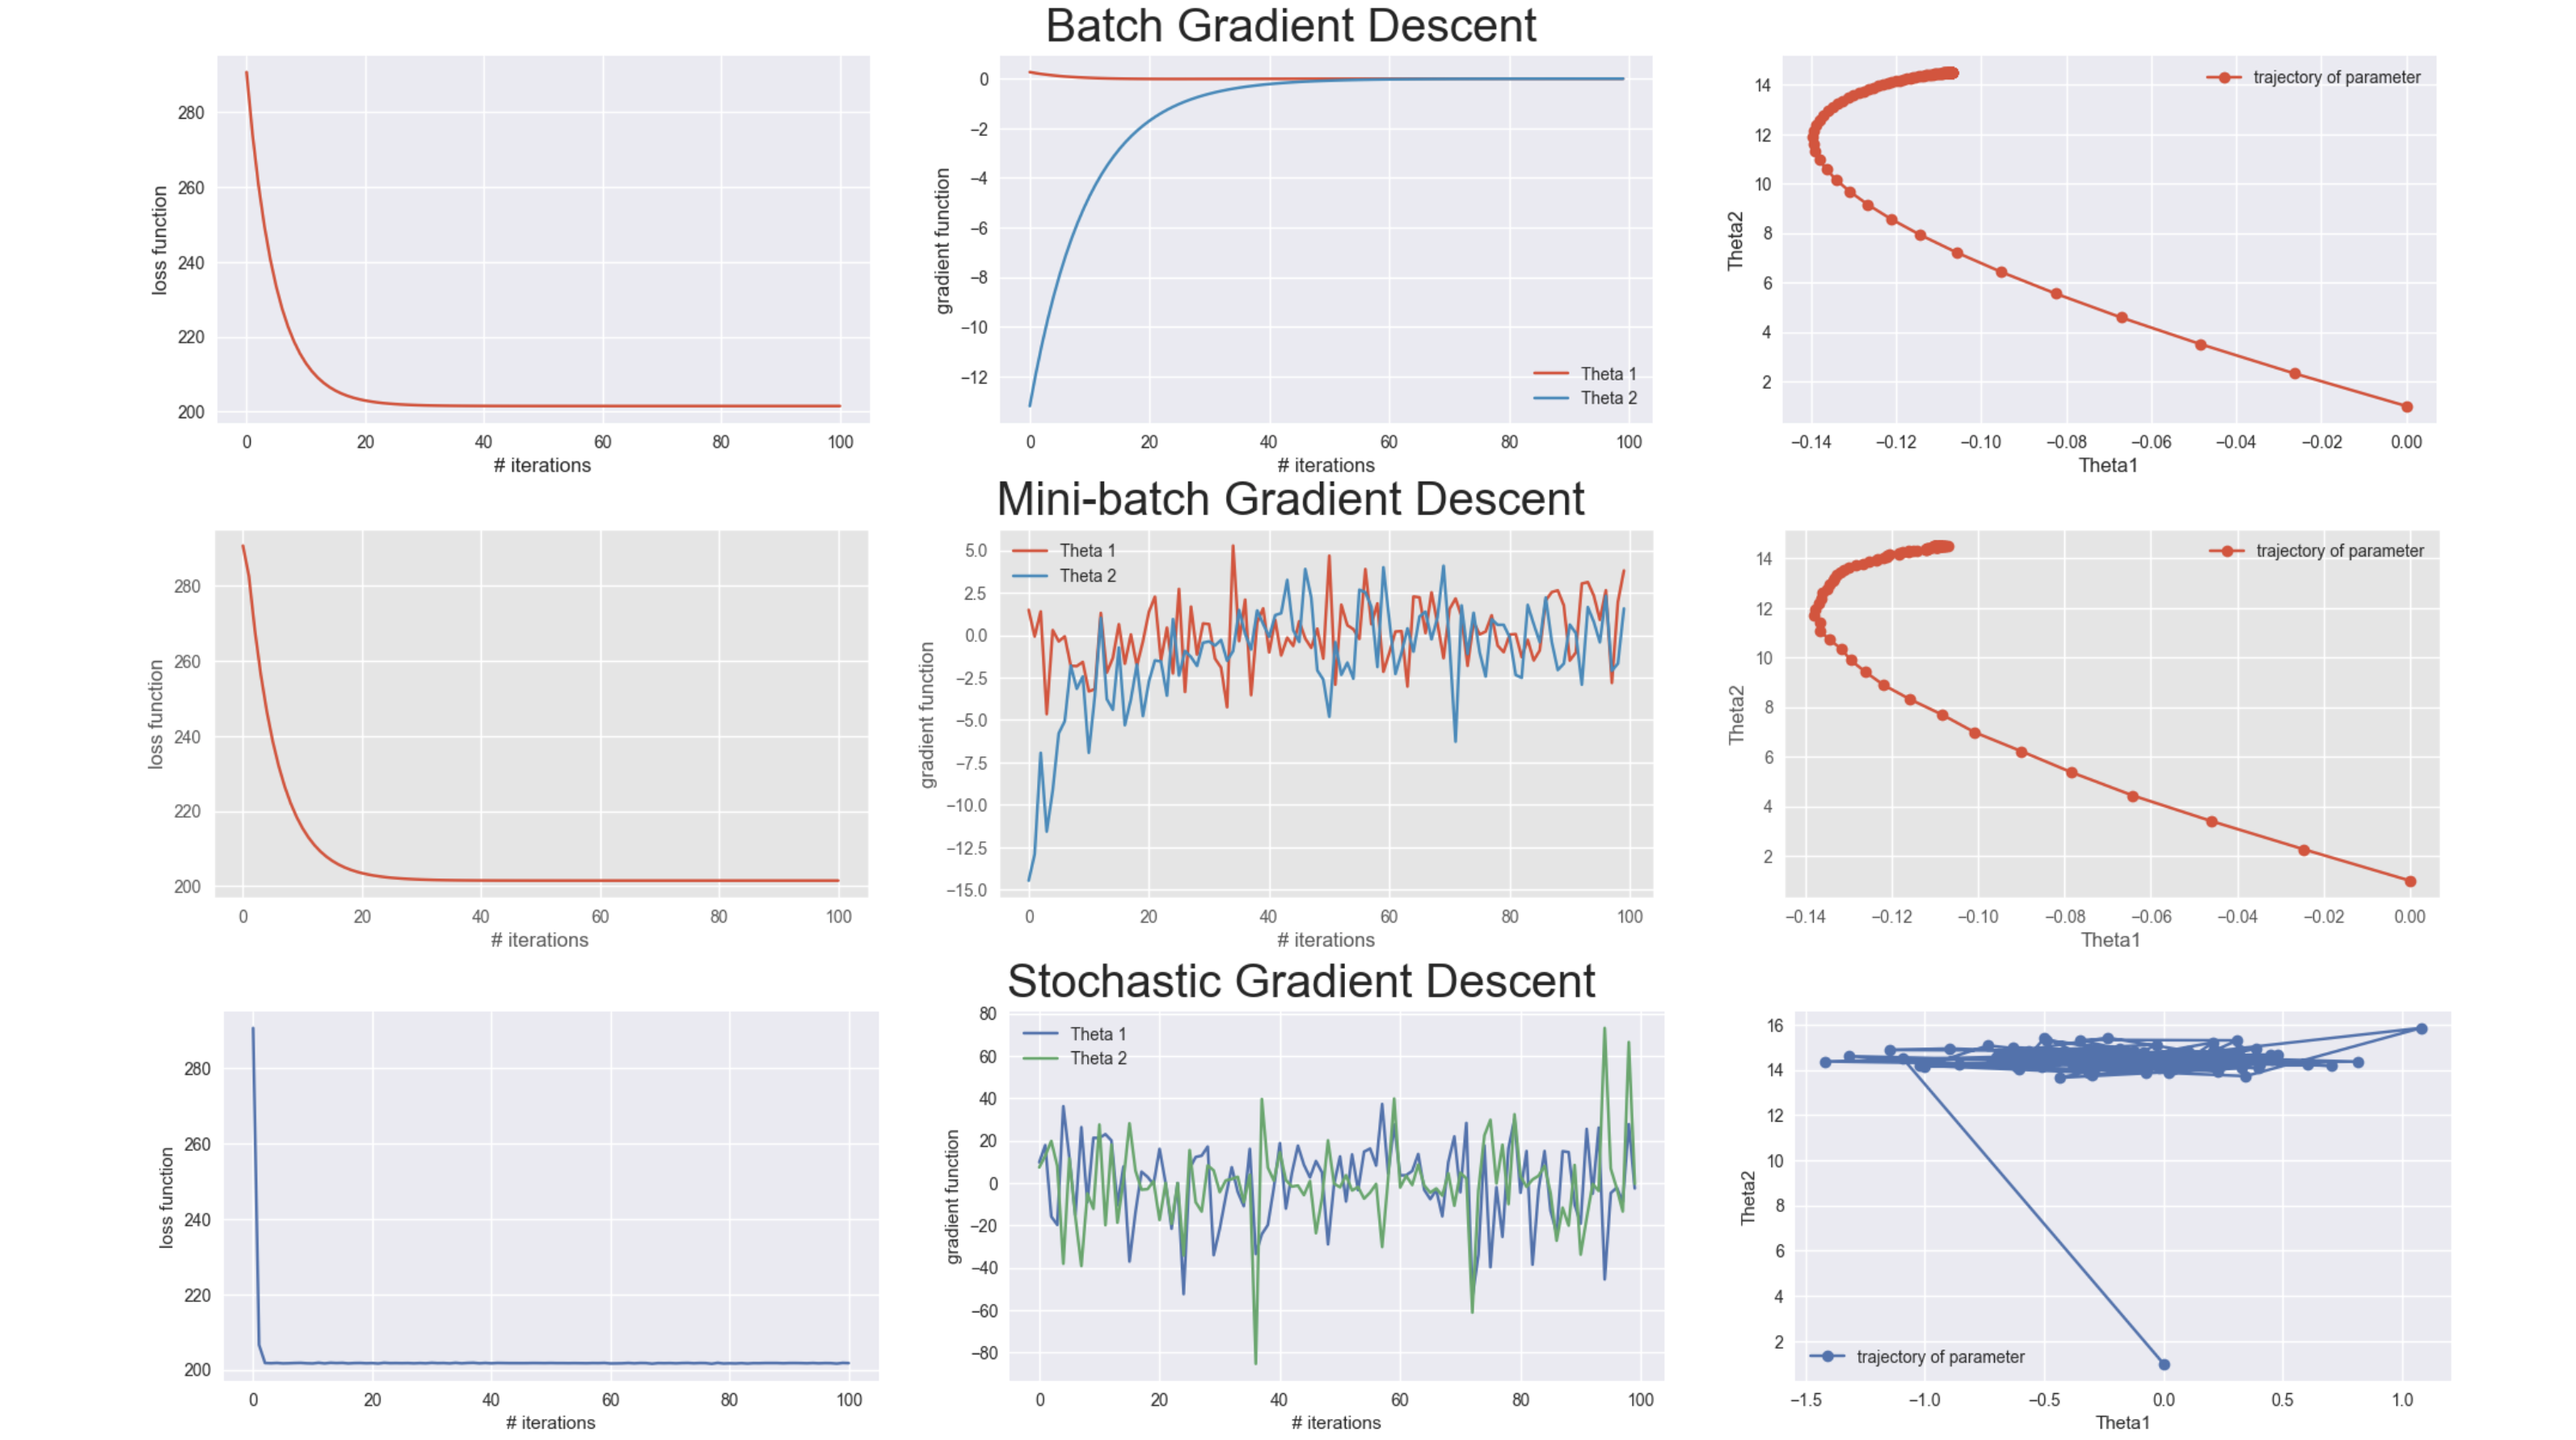
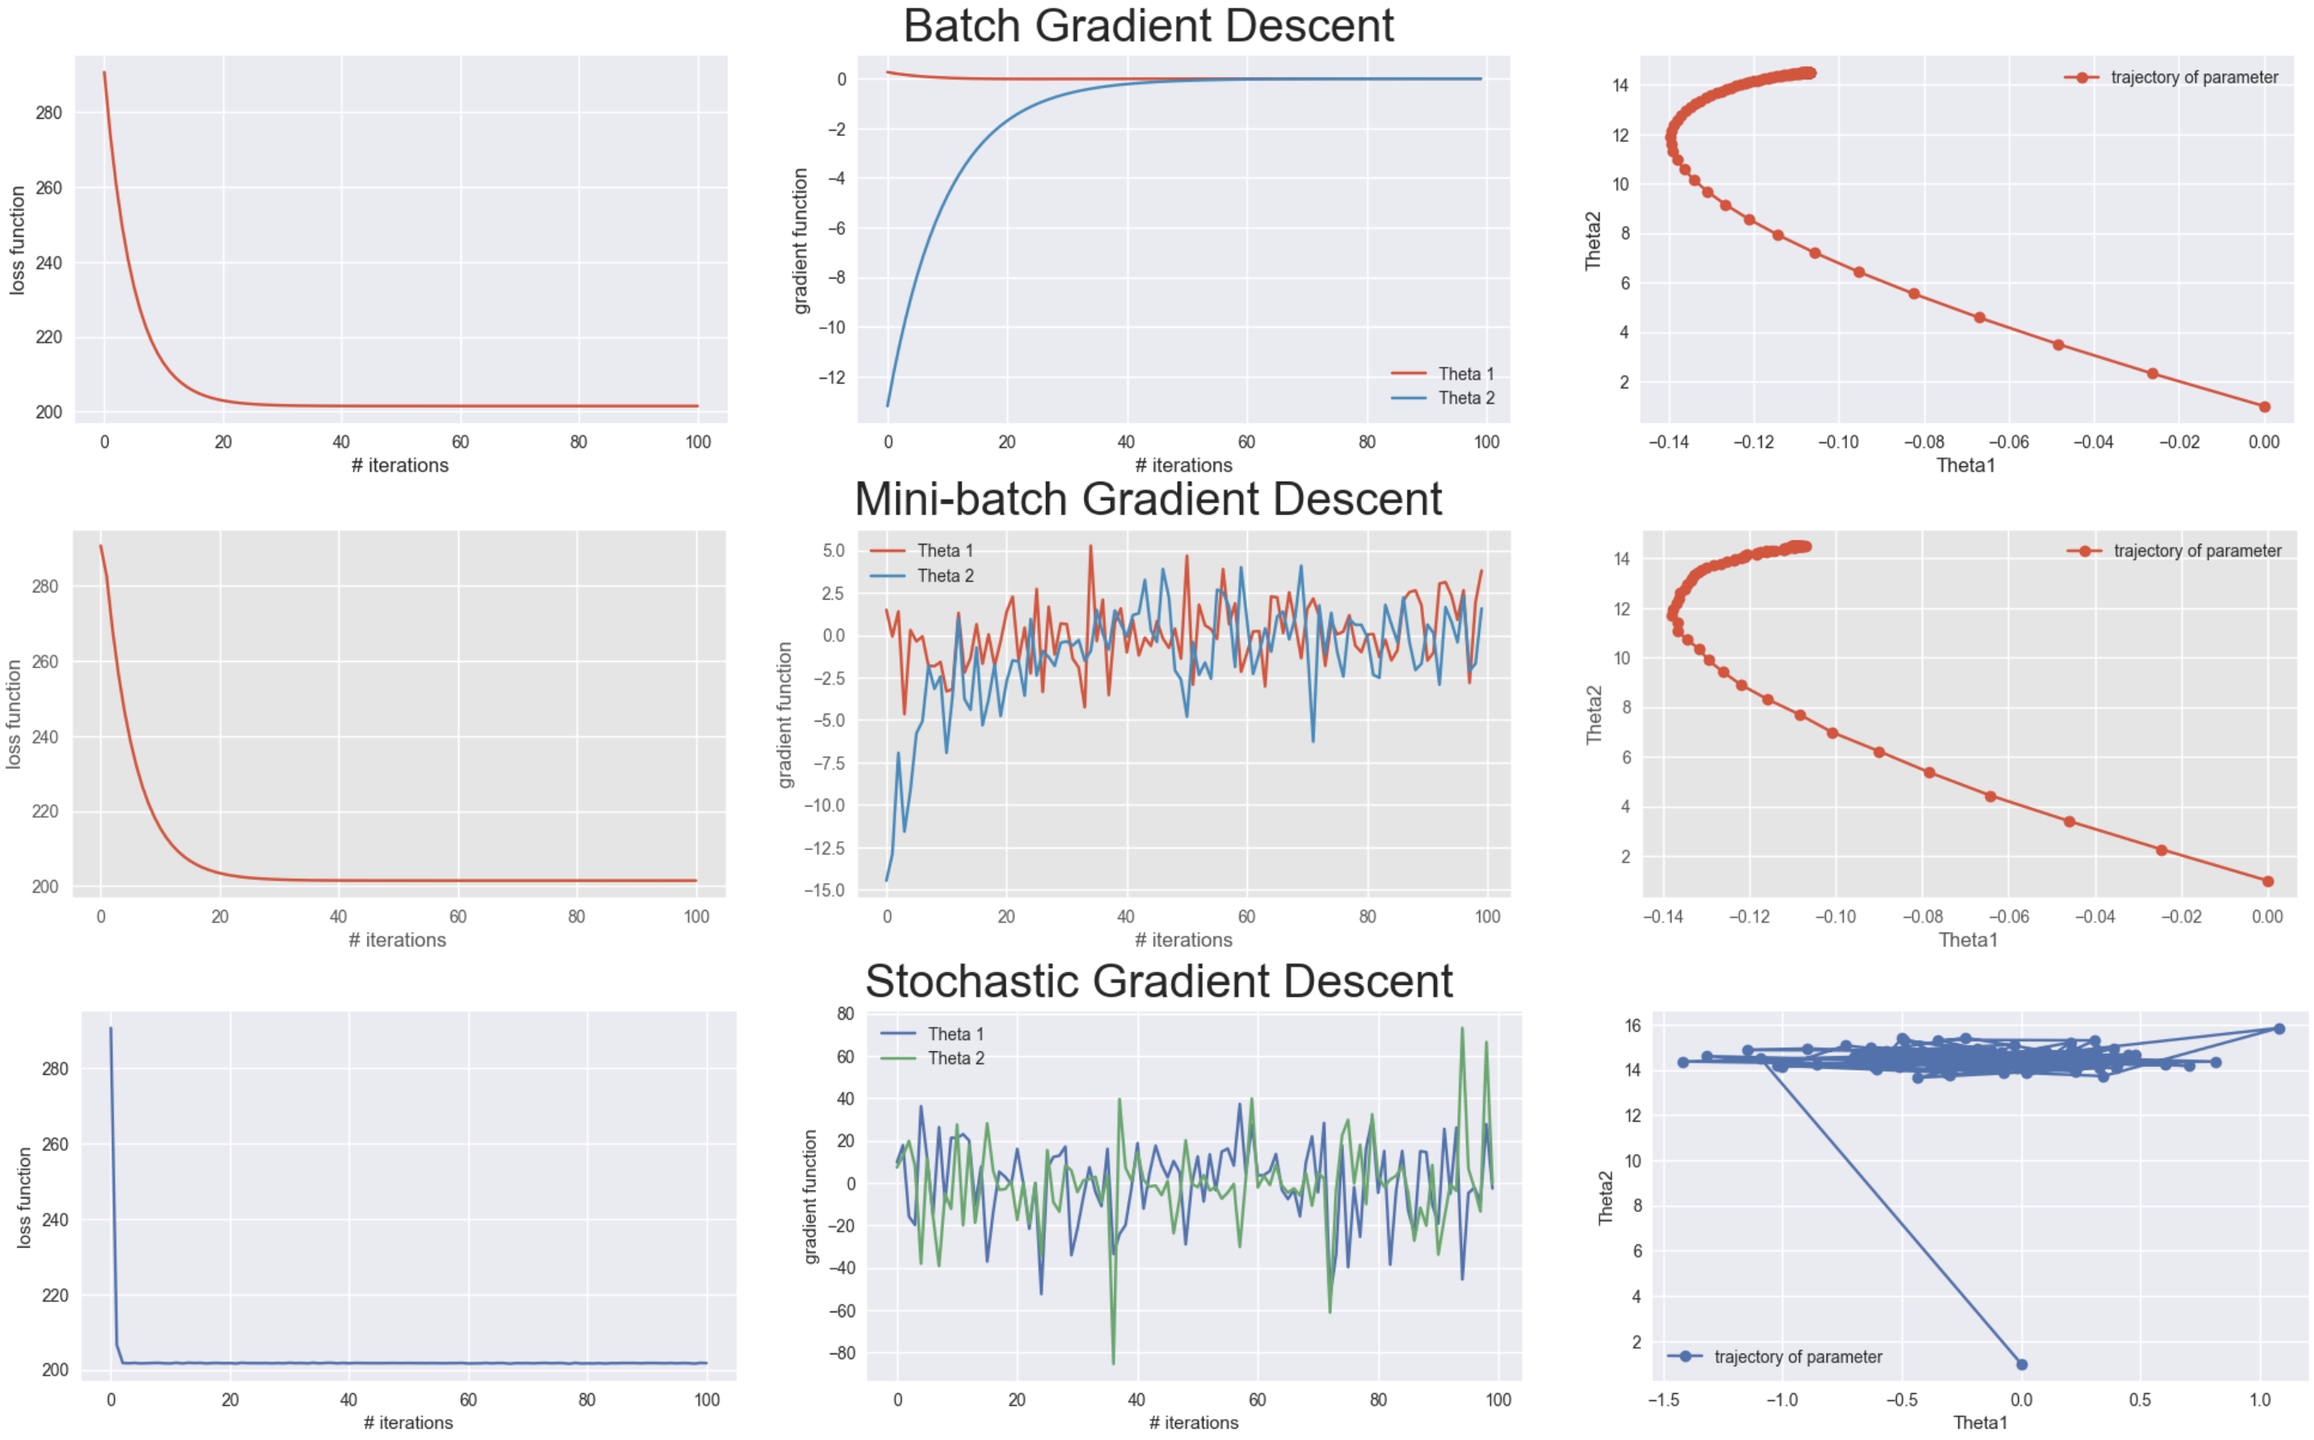
clouds -lab2

diff --git a/README.md b/README.md
@@ -7,7 +7,7 @@ The goal of this course is to provide a comprehensive view on recent topics and 
 ***
 ## Notebooks
 ### [Introduction](https://github.com/JZ-LIANG/Distributed-Systems-and-Cloud-Computing/blob/master/notebooks/Lab1%20-%20Introduction.ipynb)
-<img align="right" src="images%20/intro_img.png" width="300">
+<img align="right" src="images%20/intro_img.png" width="250">
 
 In this introductory laboratory:
  * Acquire Pandas, Matplotlib, Numpy
@@ -19,7 +19,7 @@ In this introductory laboratory:
 
 ### [Distributed Gradient Descent](https://github.com/JZ-LIANG/Distributed-Systems-and-Cloud-Computing/blob/master/notebooks/Lab2%20-%20Distributed%20Gradient%20Descent.ipynb)
 <p align="center">
-<img src="images%20/gradient_img.png" width="640">
+<img src="images%20/gradient_img.png" width="600">
 </p>
 
 This notebook contains multiple implementations of the gradient descent algorithm. 
